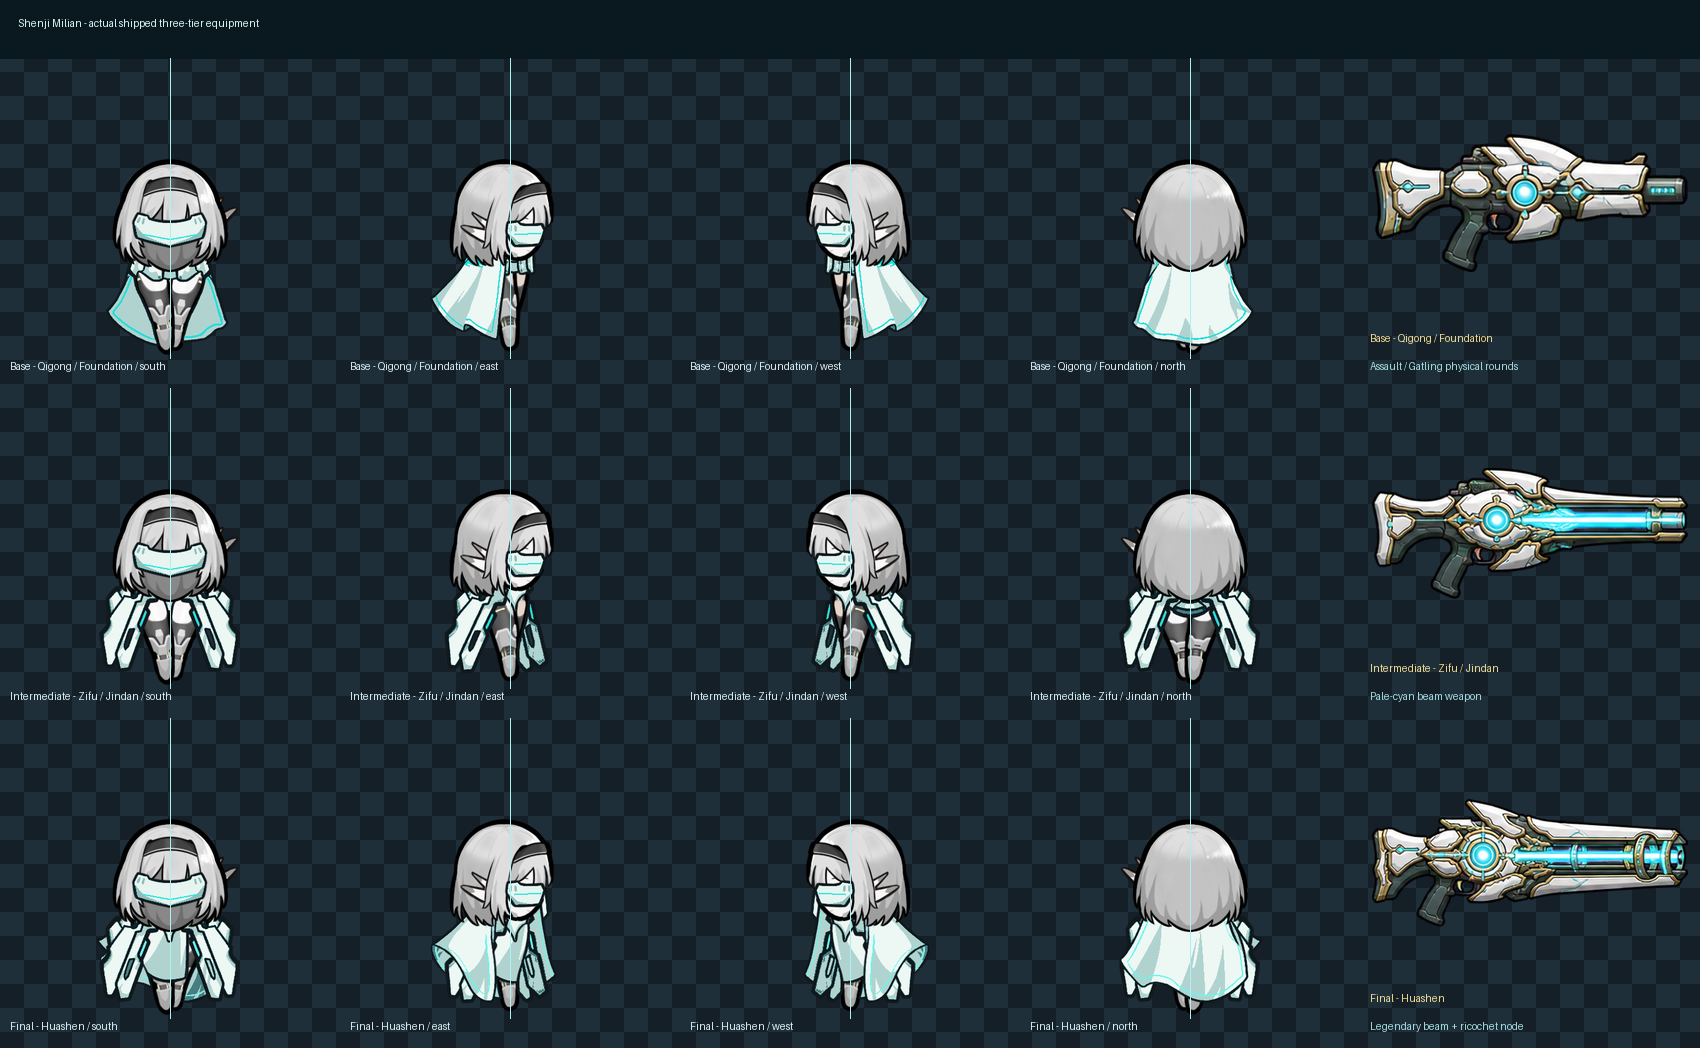
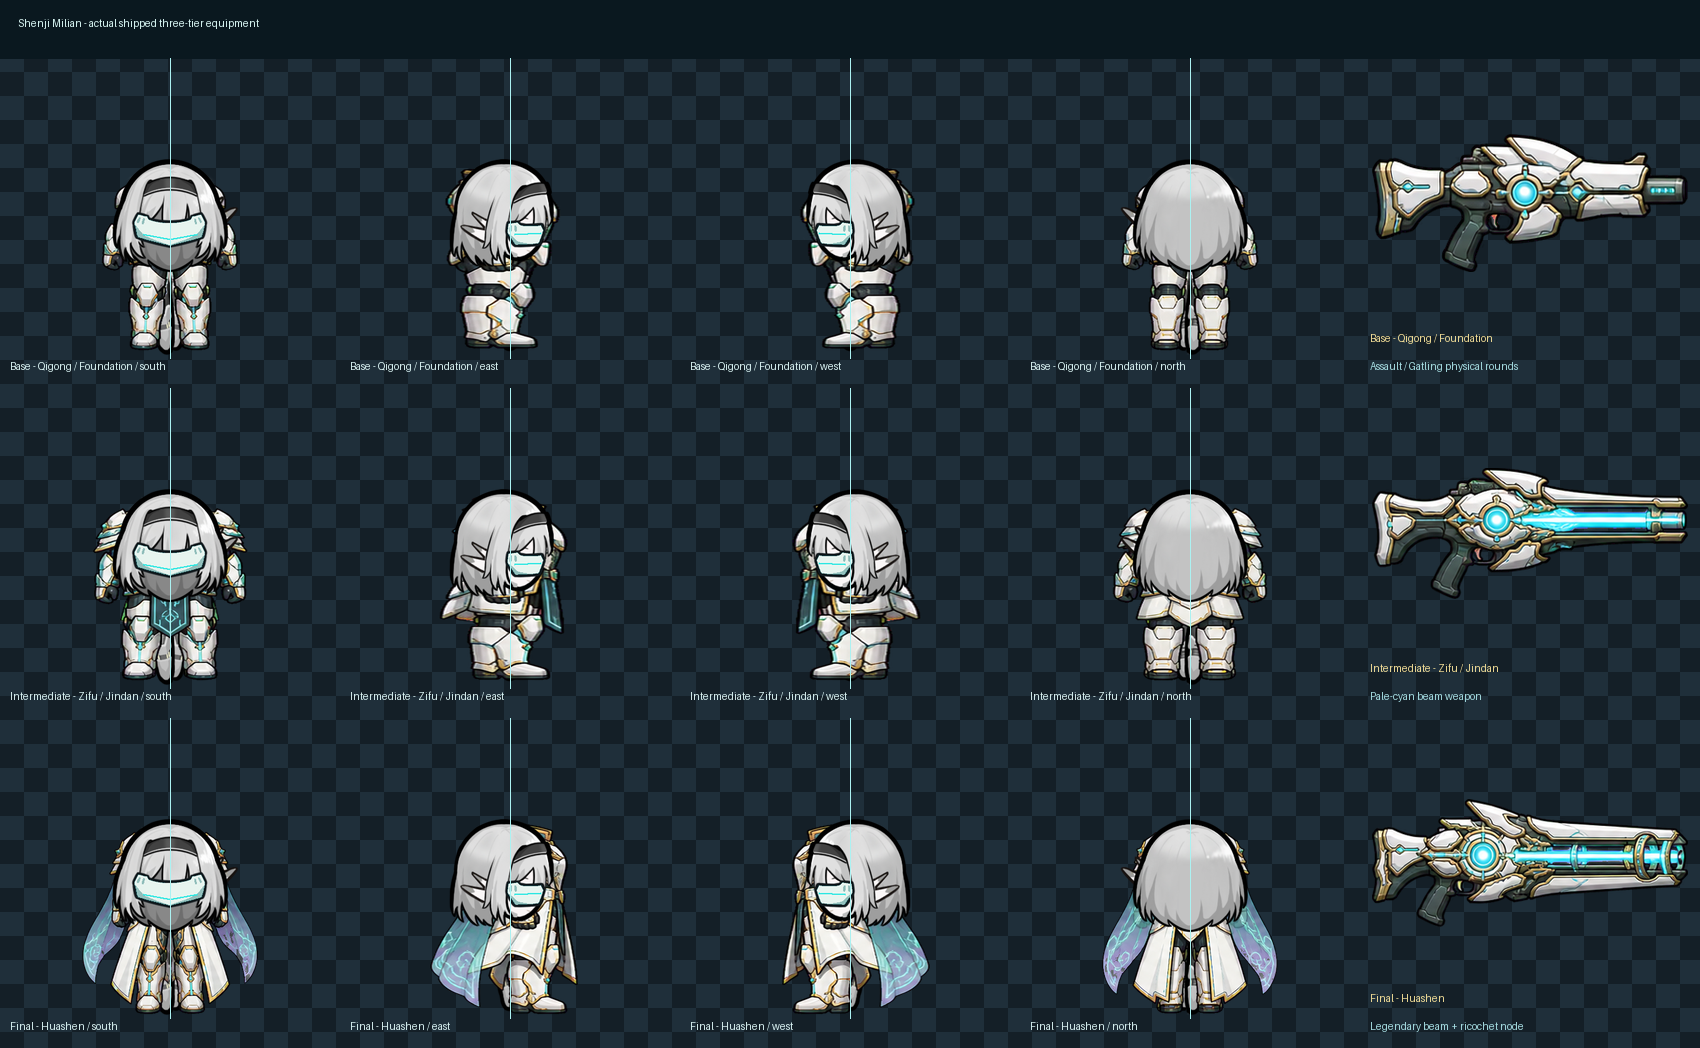
Rebuild Shenji armor silhouettes

diff --git a/Source/rebuild_shenji_armor_v4.py b/Source/rebuild_shenji_armor_v4.py
@@ -1,0 +1,85 @@
+"""Build the three Shenji armor tiers from the approved 3x4 orthographic atlas.
+
+The generated atlas is only a design source.  This deterministic pass removes
+the layout padding, scales every direction onto the native 512px Milian pawn
+canvas, and writes the exact apparel paths loaded by RimWorld.
+"""
+
+from pathlib import Path
+
+from PIL import Image
+
+
+MOD = Path(__file__).resolve().parents[1]
+ATLAS = MOD / "ArtSource" / "GeneratedAssets" / "Shenji" / "ShenjiArmor_Orthographic_Rebuild_v4_transparent.png"
+OUTPUT = MOD / "Content" / "Textures" / "Yunjianzi" / "Apparel" / "Shenji"
+
+ROWS = ("Base", "Intermediate", "Final")
+COLUMNS = ("south", "east", "north", "west")
+
+# Target boxes retain Milira's native head/feet baseline while allowing each
+# tier to acquire a visibly different silhouette. West is engine-mirrored from
+# east, so only the three normal RimWorld directional files are shipped.
+TARGETS = {
+    ("Base", "south"): (146, 176, 366, 468),
+    ("Base", "east"): (151, 176, 337, 466),
+    ("Base", "north"): (146, 176, 366, 468),
+    ("Intermediate", "south"): (132, 174, 380, 468),
+    ("Intermediate", "east"): (142, 174, 350, 468),
+    ("Intermediate", "north"): (132, 174, 380, 468),
+    ("Final", "south"): (115, 166, 397, 474),
+    ("Final", "east"): (128, 166, 366, 474),
+    ("Final", "north"): (115, 166, 397, 474),
+}
+
+
+def source_cell(atlas: Image.Image, row: int, column: int) -> Image.Image:
+    left = round(column * atlas.width / 4)
+    right = round((column + 1) * atlas.width / 4)
+    # Image generation leaves slightly larger breathing room above the first
+    # row. Equal thirds cut the gold collar of the next row into the previous
+    # cell (the visible crescent-under-the-boots bug), so use the actual bands.
+    row_edges = (0.0, 0.325, 0.64, 1.0)
+    top = round(row_edges[row] * atlas.height)
+    bottom = round(row_edges[row + 1] * atlas.height)
+    cell = atlas.crop((left, top, right, bottom))
+    bounds = cell.getchannel("A").getbbox()
+    if bounds is None:
+        raise RuntimeError(f"Empty armor cell row={row}, column={column}")
+    return cell.crop(bounds)
+
+
+def place(source: Image.Image, target_box: tuple[int, int, int, int]) -> Image.Image:
+    x0, y0, x1, y1 = target_box
+    target_w, target_h = x1 - x0, y1 - y0
+    # The concept sheet uses conventional humanoid proportions. Milian pawns
+    # are deliberately much wider and shorter, so preserving the source aspect
+    # ratio produces the old "thin strip under a large head" regression.
+    # Calibrate width and height independently to the native apparel box.
+    fitted = source.resize((target_w, target_h), Image.Resampling.LANCZOS)
+    x, y = x0, y0
+    canvas = Image.new("RGBA", (512, 512))
+    canvas.alpha_composite(fitted, (x, y))
+    return canvas
+
+
+def main() -> None:
+    atlas = Image.open(ATLAS).convert("RGBA")
+    OUTPUT.mkdir(parents=True, exist_ok=True)
+    for row, tier in enumerate(ROWS):
+        built = {}
+        for direction in ("south", "east", "north"):
+            column = COLUMNS.index(direction)
+            image = place(source_cell(atlas, row, column), TARGETS[(tier, direction)])
+            path = OUTPUT / f"ShenjiArmor_{tier}_Female_{direction}.png"
+            image.save(path, optimize=True)
+            built[direction] = image
+
+        # Inventory icon: centered south armor with no additional frame.
+        built["south"].save(OUTPUT / f"ShenjiArmor_{tier}.png", optimize=True)
+
+    print(OUTPUT)
+
+
+if __name__ == "__main__":
+    main()
